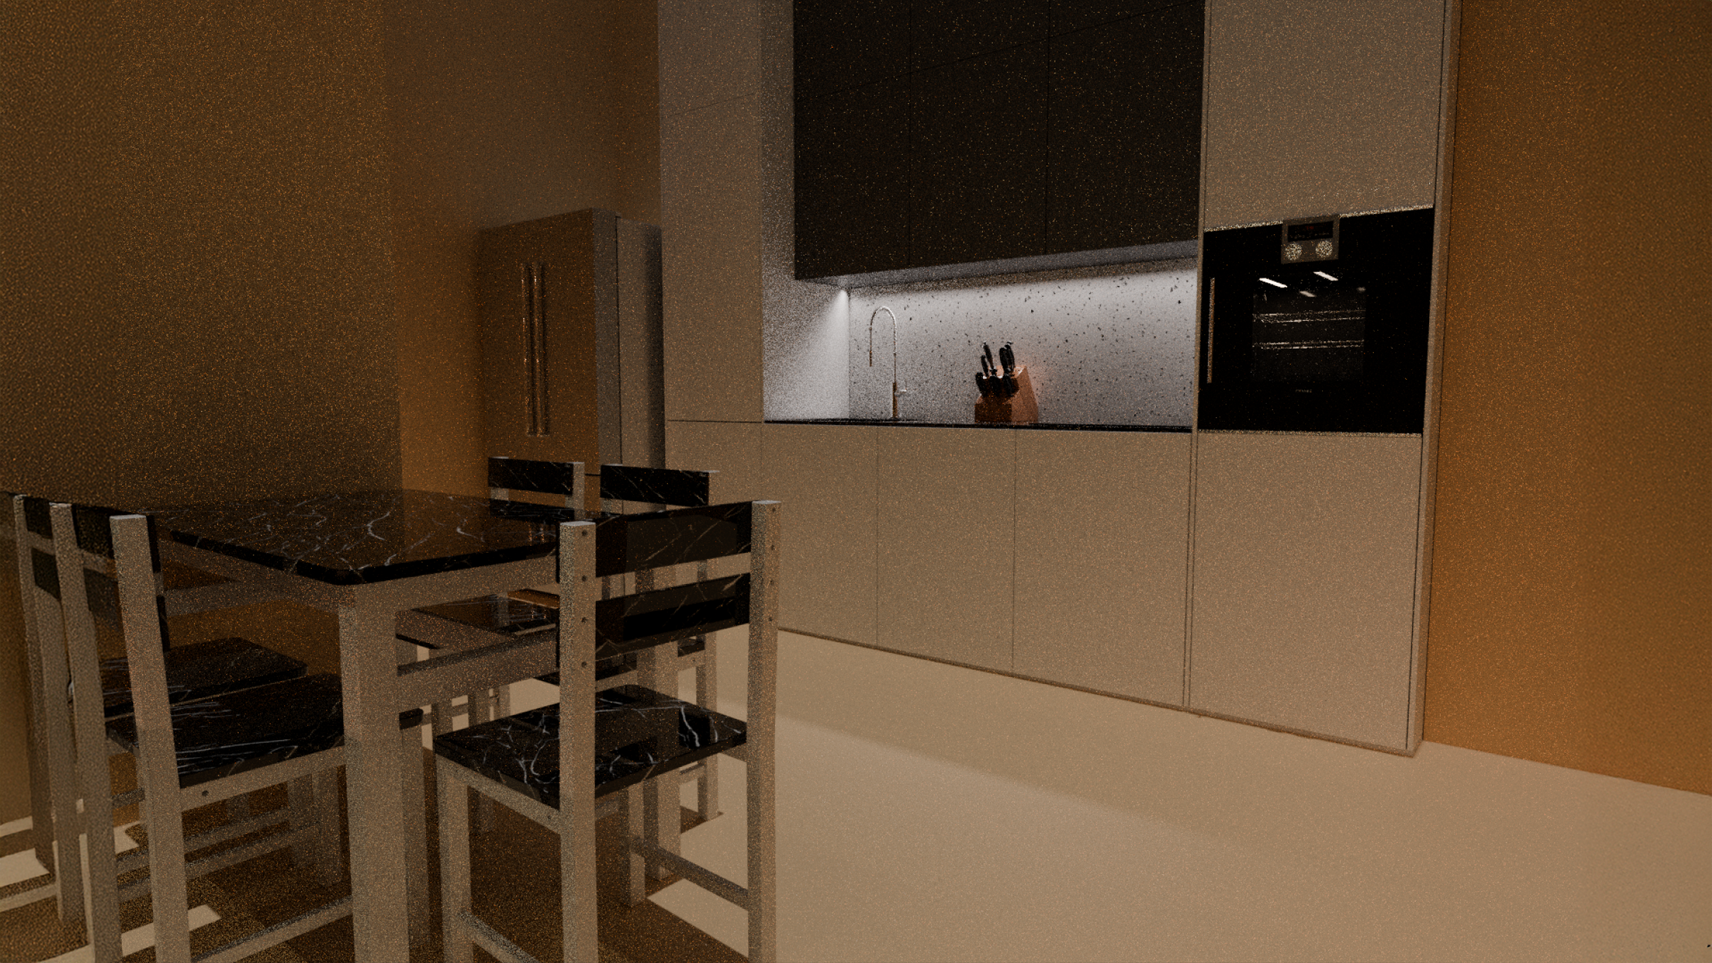
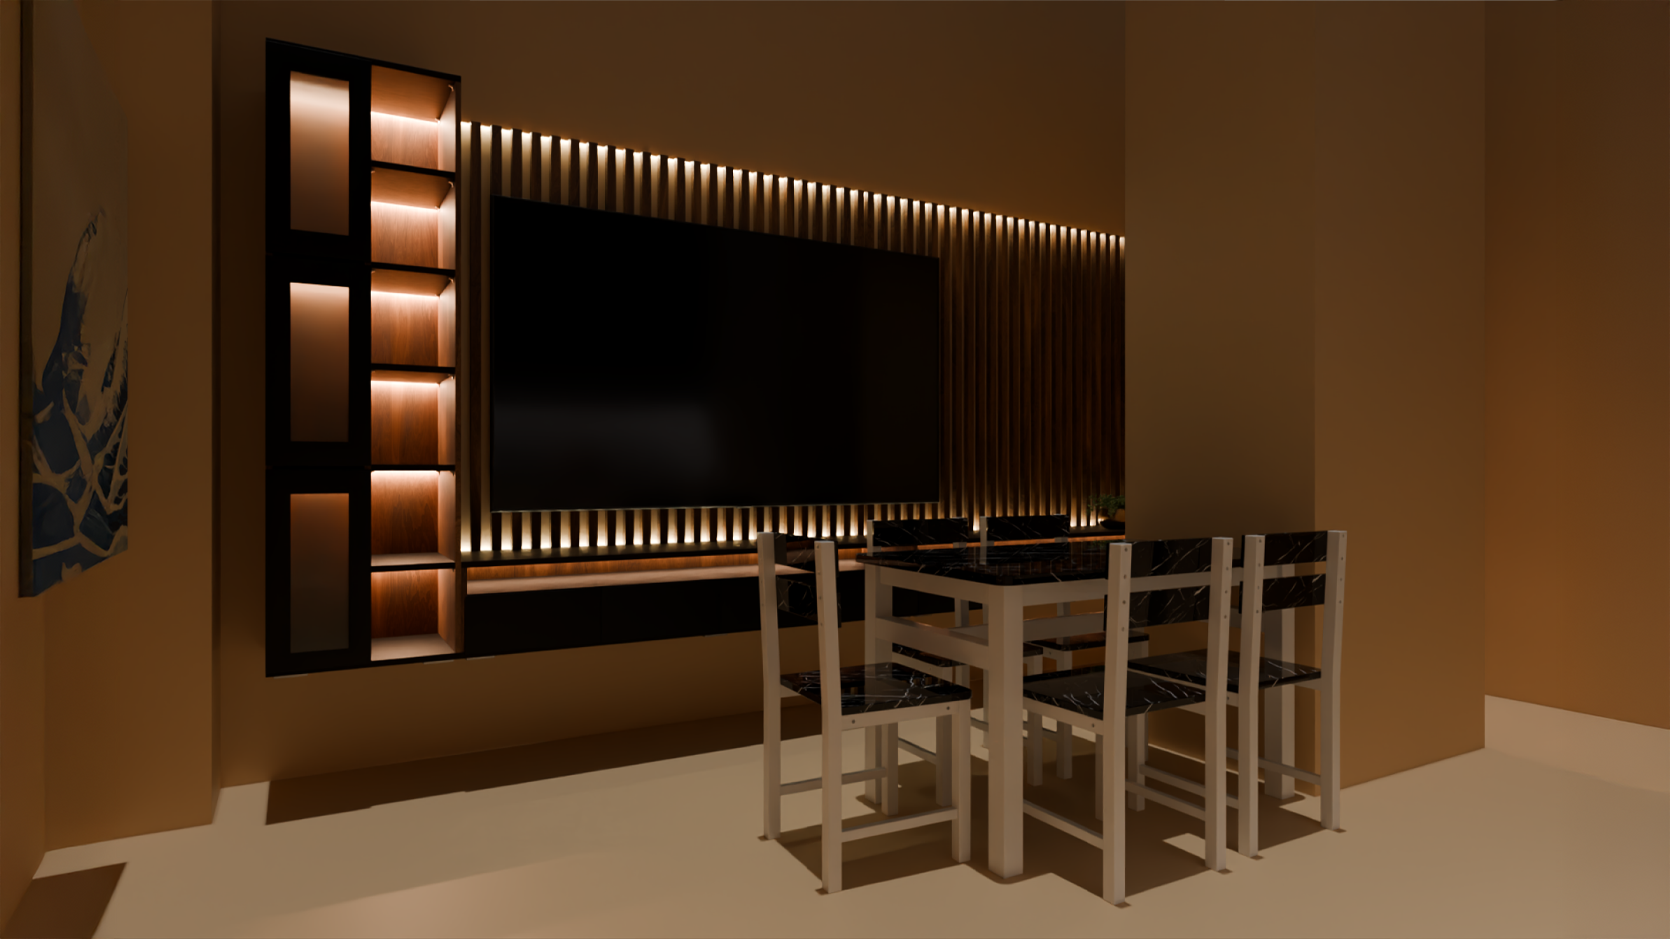
c

diff --git a/index.html b/index.html
@@ -113,22 +113,6 @@
 
         <div class="gallery-grid">
 
-          <!-- 1. ALAN WALKER (posizione di punta — esperienza professionale reale) -->
-          <section class="case reveal" data-cat="game"
-            data-title="Alan Walker — Digital Artist Team"
-            data-desc="Asset 3D ufficiali per concerti, tour e contenuti digitali dell'artista."
-            data-tools="Blender, Unreal Engine"
-            data-note="Collaborazione professionale continuativa dal 2019. Modellazione, rigging, weight painting e animazione di personaggi e prop per video musicali e visual live. Produzione contenuti su Blender e Unreal Engine per un artista con oltre 40 milioni di fan su Spotify."
-            data-images="assets/walker scene.png">
-            <div class="case-bg" style="--bg:url('assets/walker scene.png')"></div>
-            <div class="case-info">
-              <div class="badges"></div>
-              <h3>Alan Walker — Digital Art</h3>
-              <button class="btn small open-modal" type="button">Apri galleria</button>
-            </div>
-          </section>
-
-          <!-- 2. OBLIVION HOSPITAL -->
           <section class="case reveal" data-cat="game"
             data-title="Ambientazione — Oblivion Hospital"
             data-desc="Ambientazione horror completa con animazioni interattive per videogioco."
@@ -144,7 +128,6 @@
             </div>
           </section>
 
-          <!-- 3. TRENI TRENITALIA -->
           <section class="case reveal" data-cat="game"
             data-title="Treni Trenitalia"
             data-desc="Asset hard-surface ad alta fedeltà per simulatori ferroviari."
@@ -159,7 +142,6 @@
             </div>
           </section>
 
-          <!-- 4. ANIMATRONE -->
           <section class="case reveal" data-cat="game"
             data-title="Animatrone Umanoide"
             data-desc="Personaggio mostro per UE5 — modellazione, texturing, rigging completo."
@@ -174,14 +156,13 @@
             </div>
           </section>
 
-          <!-- 5. SOLDIER WALKER -->
           <section class="case reveal" data-cat="game"
             data-title="Soldier Walker"
             data-desc="Personaggio 3D con studio materiali, sculpt e posing."
             data-tools="Blender, Substance Painter, Photoshop"
             data-note="Character modeling completo: sculpt hi-poly, retopology manuale per uso real-time, UV mapping, texturing con Substance Painter. Studio dei materiali (metallo, tessuto, cuoio). Posing finale con skeleton e weight painting."
-            data-images="assets/soldier.jpg|assets/soldier2.png|assets/soldier3.png">
-            <div class="case-bg" style="--bg:url('soldier.jpg')"></div>
+            data-images="assets/soldier3.jpg|assets/soldier.png|assets/soldier2.png">
+            <div class="case-bg" style="--bg:url('soldier3.jpg')"></div>
             <div class="case-info">
               <div class="badges"></div>
               <h3>Soldier Walker</h3>
@@ -189,7 +170,6 @@
             </div>
           </section>
 
-          <!-- 6. STAR DESTROYER -->
           <section class="case reveal" data-cat="viz"
             data-title="Star Destroyer"
             data-desc="Hard-surface modeling di nave capitale Star Wars — rendering cinematico."
@@ -204,7 +184,6 @@
             </div>
           </section>
 
-          <!-- 7. MINI APPARTAMENTO -->
           <section class="case reveal" data-cat="viz"
             data-title="Mini Appartamento e Aula Studio"
             data-desc="Architectural visualization di interni — lighting e materiali realistici."
@@ -219,7 +198,6 @@
             </div>
           </section>
 
-          <!-- 8. ALAN WALKER VISUALIZER -->
           <section class="case reveal" data-cat="viz"
             data-title="Alan Walker — Beautiful Nightmare Visualizer"
             data-desc="Motion graphics e visualizer 3D per remix musicale ufficiale."
@@ -234,14 +212,13 @@
             </div>
           </section>
 
-          <!-- 9. TRAM TORINO -->
           <section class="case reveal" data-cat="game"
             data-title="Tram Torino — Low Poly Game Asset"
             data-desc="Asset low poly ottimizzato per videogioco ambientato a Torino."
             data-tools="Blender, Unity"
             data-note="Modellazione low-poly di un tram GTT di Torino con budget poligoni ottimizzato per real-time. Texturing con atlas UV, import e configurazione in Unity con collider e materiali. Progetto personale per un gioco ambientato a Torino."
-            data-images="assets/Screenshot 2025-06-05 221951.png|assets/Screenshot 2025-06-06 004449.png|assets/Screenshot 2025-06-06 0049.png|assets/Screenshot 2025-06-06 00465349.png|assets/Screenshot 2025-10-12 346.png">
-            <div class="case-bg" style="--bg:url('assets/Screenshot 2025-06-05 221951.png')"></div>
+            data-images="assets/tram.png|assets/treno.png|assets/treno2.png|assets/treno3.png|assets/treno4.png">
+            <div class="case-bg" style="--bg:url('assets/tram.png')"></div>
             <div class="case-info">
               <div class="badges"></div>
               <h3>Tram Torino Lowpoly</h3>
@@ -249,7 +226,6 @@
             </div>
           </section>
 
-          <!-- 10. AETALYA CHRONICLES -->
           <section class="case reveal" data-cat="game"
             data-title="2084 — Aetalya Chronicles"
             data-desc="UI/HUD design per videogioco sci-fi distopico."
@@ -264,7 +240,6 @@
             </div>
           </section>
 
-          <!-- 11. BABY YODA FOTOGRAMMETRIA -->
           <section class="case reveal" data-cat="viz"
             data-title="Statuina Baby Yoda — Fotogrammetria"
             data-desc="Ricostruzione 3D fotogrammetrica di un oggetto reale."
@@ -279,14 +254,13 @@
             </div>
           </section>
 
-          <!-- 12. LOWPOLY PLANETS -->
           <section class="case reveal" data-cat="viz"
             data-title="Lowpoly Planets"
             data-desc="Pianeti stilizzati low-poly per video musicali e motion graphics."
             data-tools="Blender"
             data-note="Serie di pianeti low-poly stilizzati come asset per video e motion graphics. Palette cromatica coordinata, shading flat/toon. Ottimizzati per animazioni real-time e compositing video."
-            data-images="assets/Screenshot 2025-10-12 203921.png|assets/Screenshot 2025-10-12 203837.png">
-            <div class="case-bg" style="--bg:url('assets/Screenshot 2025-10-12 203921.png')"></div>
+            data-images="assets/pianeta.png|assets/pianeta2.png">
+            <div class="case-bg" style="--bg:url('assets/pianeta2.png')"></div>
             <div class="case-info">
               <div class="badges"></div>
               <h3>Lowpoly Planets</h3>
@@ -294,14 +268,13 @@
             </div>
           </section>
 
-          <!-- 13. CITTA LOW POLY -->
           <section class="case reveal" data-cat="viz"
             data-title="Città Low Poly"
             data-desc="Scena urbana low-poly — compositing e lighting atmosferico."
             data-tools="Blender"
             data-note="Scena ambientale urbana low-poly con illuminazione cinematica. Studio del lighting con HDRI e luci artificiali. Shader stilizzati. Tecnica applicabile a background di giochi, animazioni e visualizzazioni architetturali semplificate."
-            data-images="assets/Screenshot 2025-10-12 203652.png">
-            <div class="case-bg" style="--bg:url('assets/Screenshot 2025-10-12 203652.png')"></div>
+            data-images="assets/città.png">
+            <div class="case-bg" style="--bg:url('assets/città.png')"></div>
             <div class="case-info">
               <div class="badges"></div>
               <h3>Città Low Poly</h3>
@@ -309,14 +282,13 @@
             </div>
           </section>
 
-          <!-- 14. AUTO FUTURISTICA -->
           <section class="case reveal" data-cat="viz"
             data-title="Auto Futuristica — Concept Car"
             data-desc="Concept car futuristica — modellazione carrozzeria e rendering studio."
             data-tools="Blender"
             data-note="Modellazione di una concept car da zero. Studio delle forme aerodinamiche e modellazione della carrozzeria con superfici curve pulite. Rendering con studio lighting per esaltare i riflessi della verniciatura. Applicabile a automotive design e product viz."
-            data-images="assets/Screenshot_20251012_214749_Drive.jpg">
-            <div class="case-bg" style="--bg:url('assets/Screenshot_20251012_214749_Drive.jpg')"></div>
+            data-images="assets/auto futuristica.jpg">
+            <div class="case-bg" style="--bg:url('assets/auto futuristica.jpg')"></div>
             <div class="case-info">
               <div class="badges"></div>
               <h3>Auto Futuristica</h3>